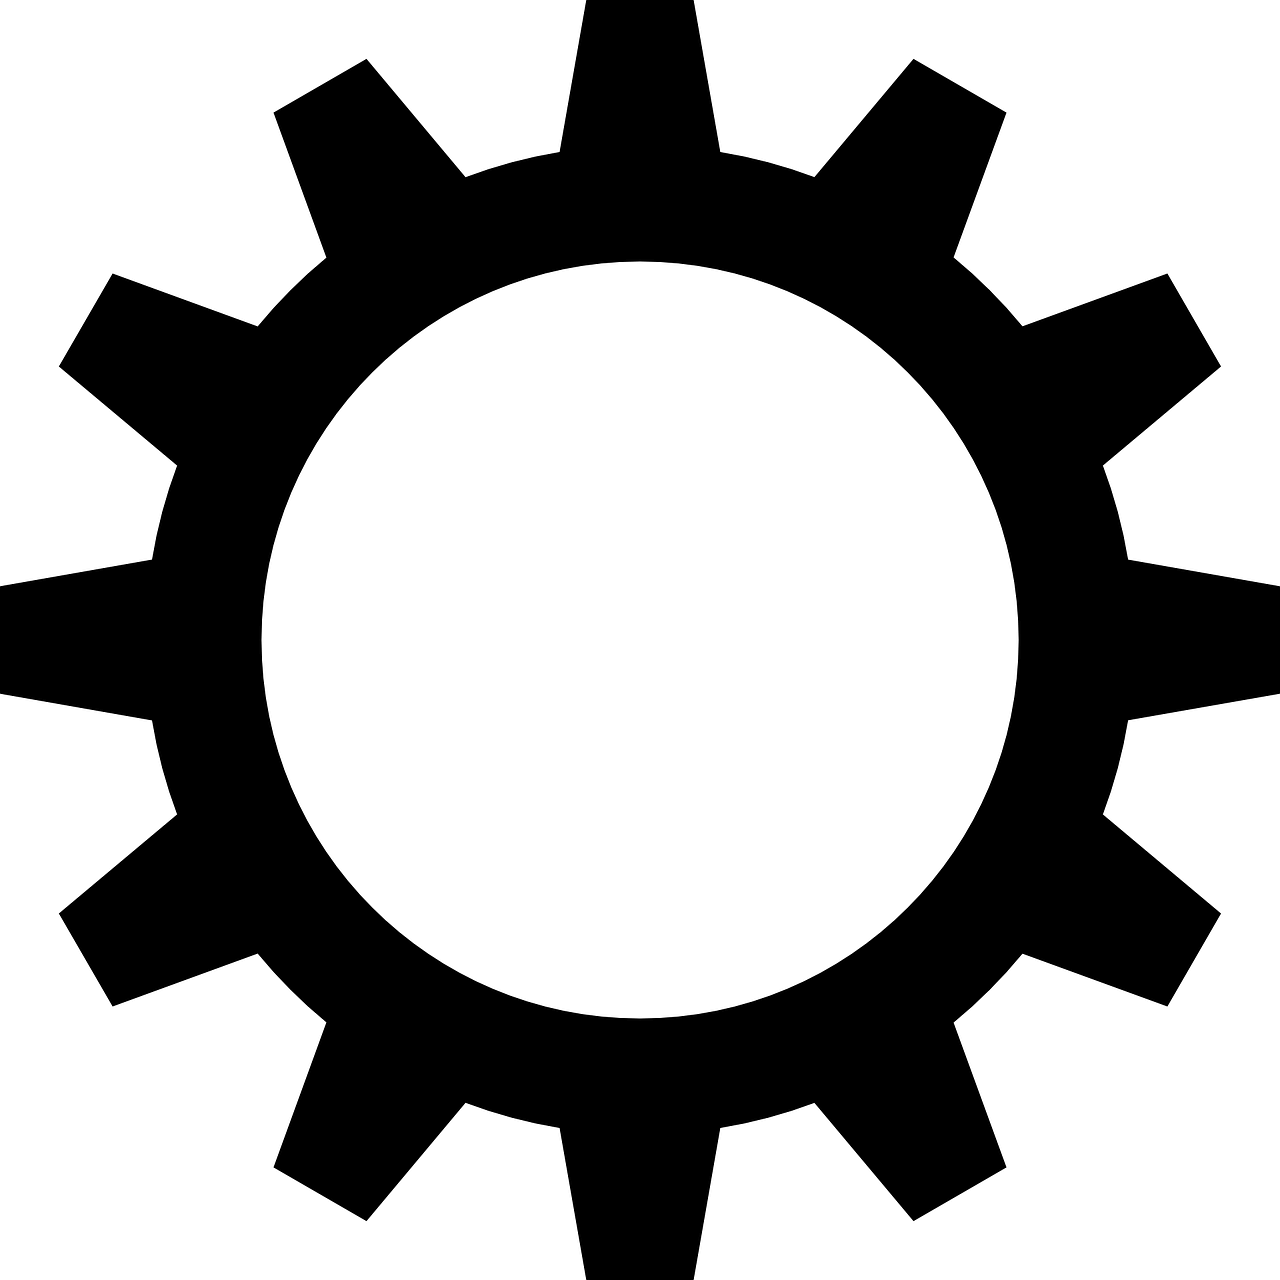
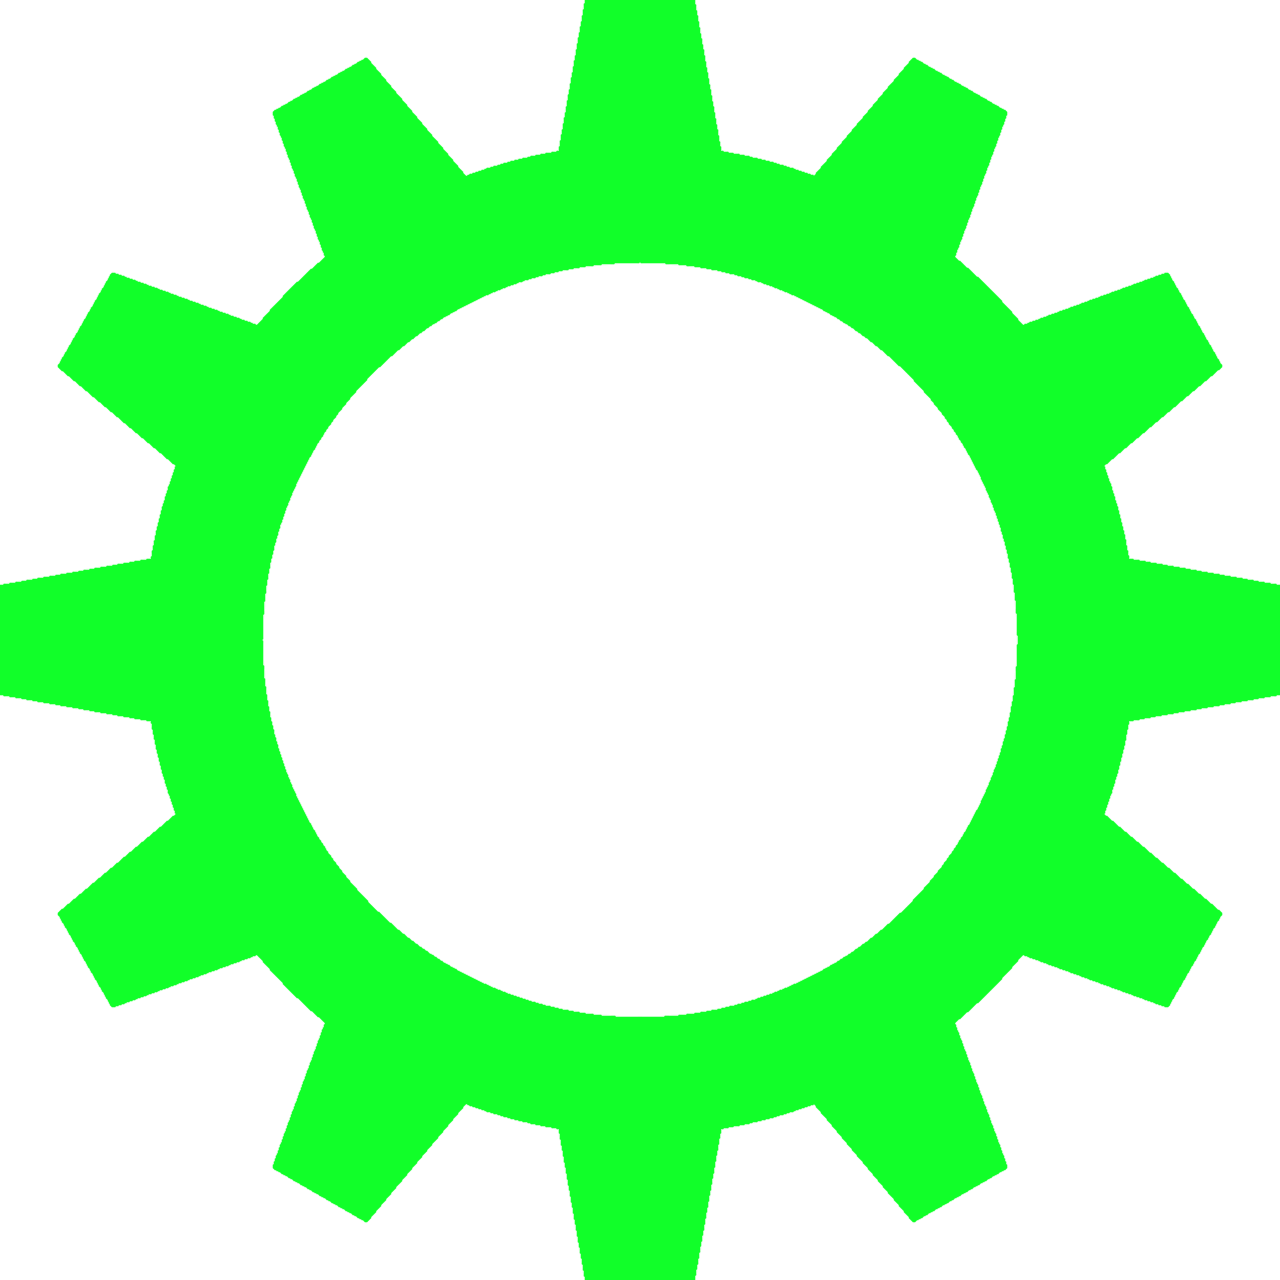
more colors and more gears

diff --git a/physics engine/html/11CogsAndGears/script.js b/physics engine/html/11CogsAndGears/script.js
@@ -13,6 +13,12 @@ let img,angle;
 img = new Image();
 img.src = "images/cog.png";
 
+img2 = new Image();
+img2.src = "images/cog2.png";
+
+img3 = new Image();
+img3.src = "images/cog3.png";
+
 angle = 0.1;
 
 img.addEventListener('load',()=>
@@ -32,10 +38,17 @@ function animate()
     context.restore();
 
     context.save();
+    context.translate(1400, 300);
+    context.rotate(0);
+    context.rotate(angle);
+    context.drawImage(img3, -300, -300, 600, 600);
+    context.restore();
+
+    context.save();
     context.translate(850,300);
     context.rotate(50);
     context.rotate(-angle);
-    context.drawImage(img,-300,-300,600,600);
+    context.drawImage(img2,-300,-300,600,600);
     context.restore();
 
     angle += 0.01;
